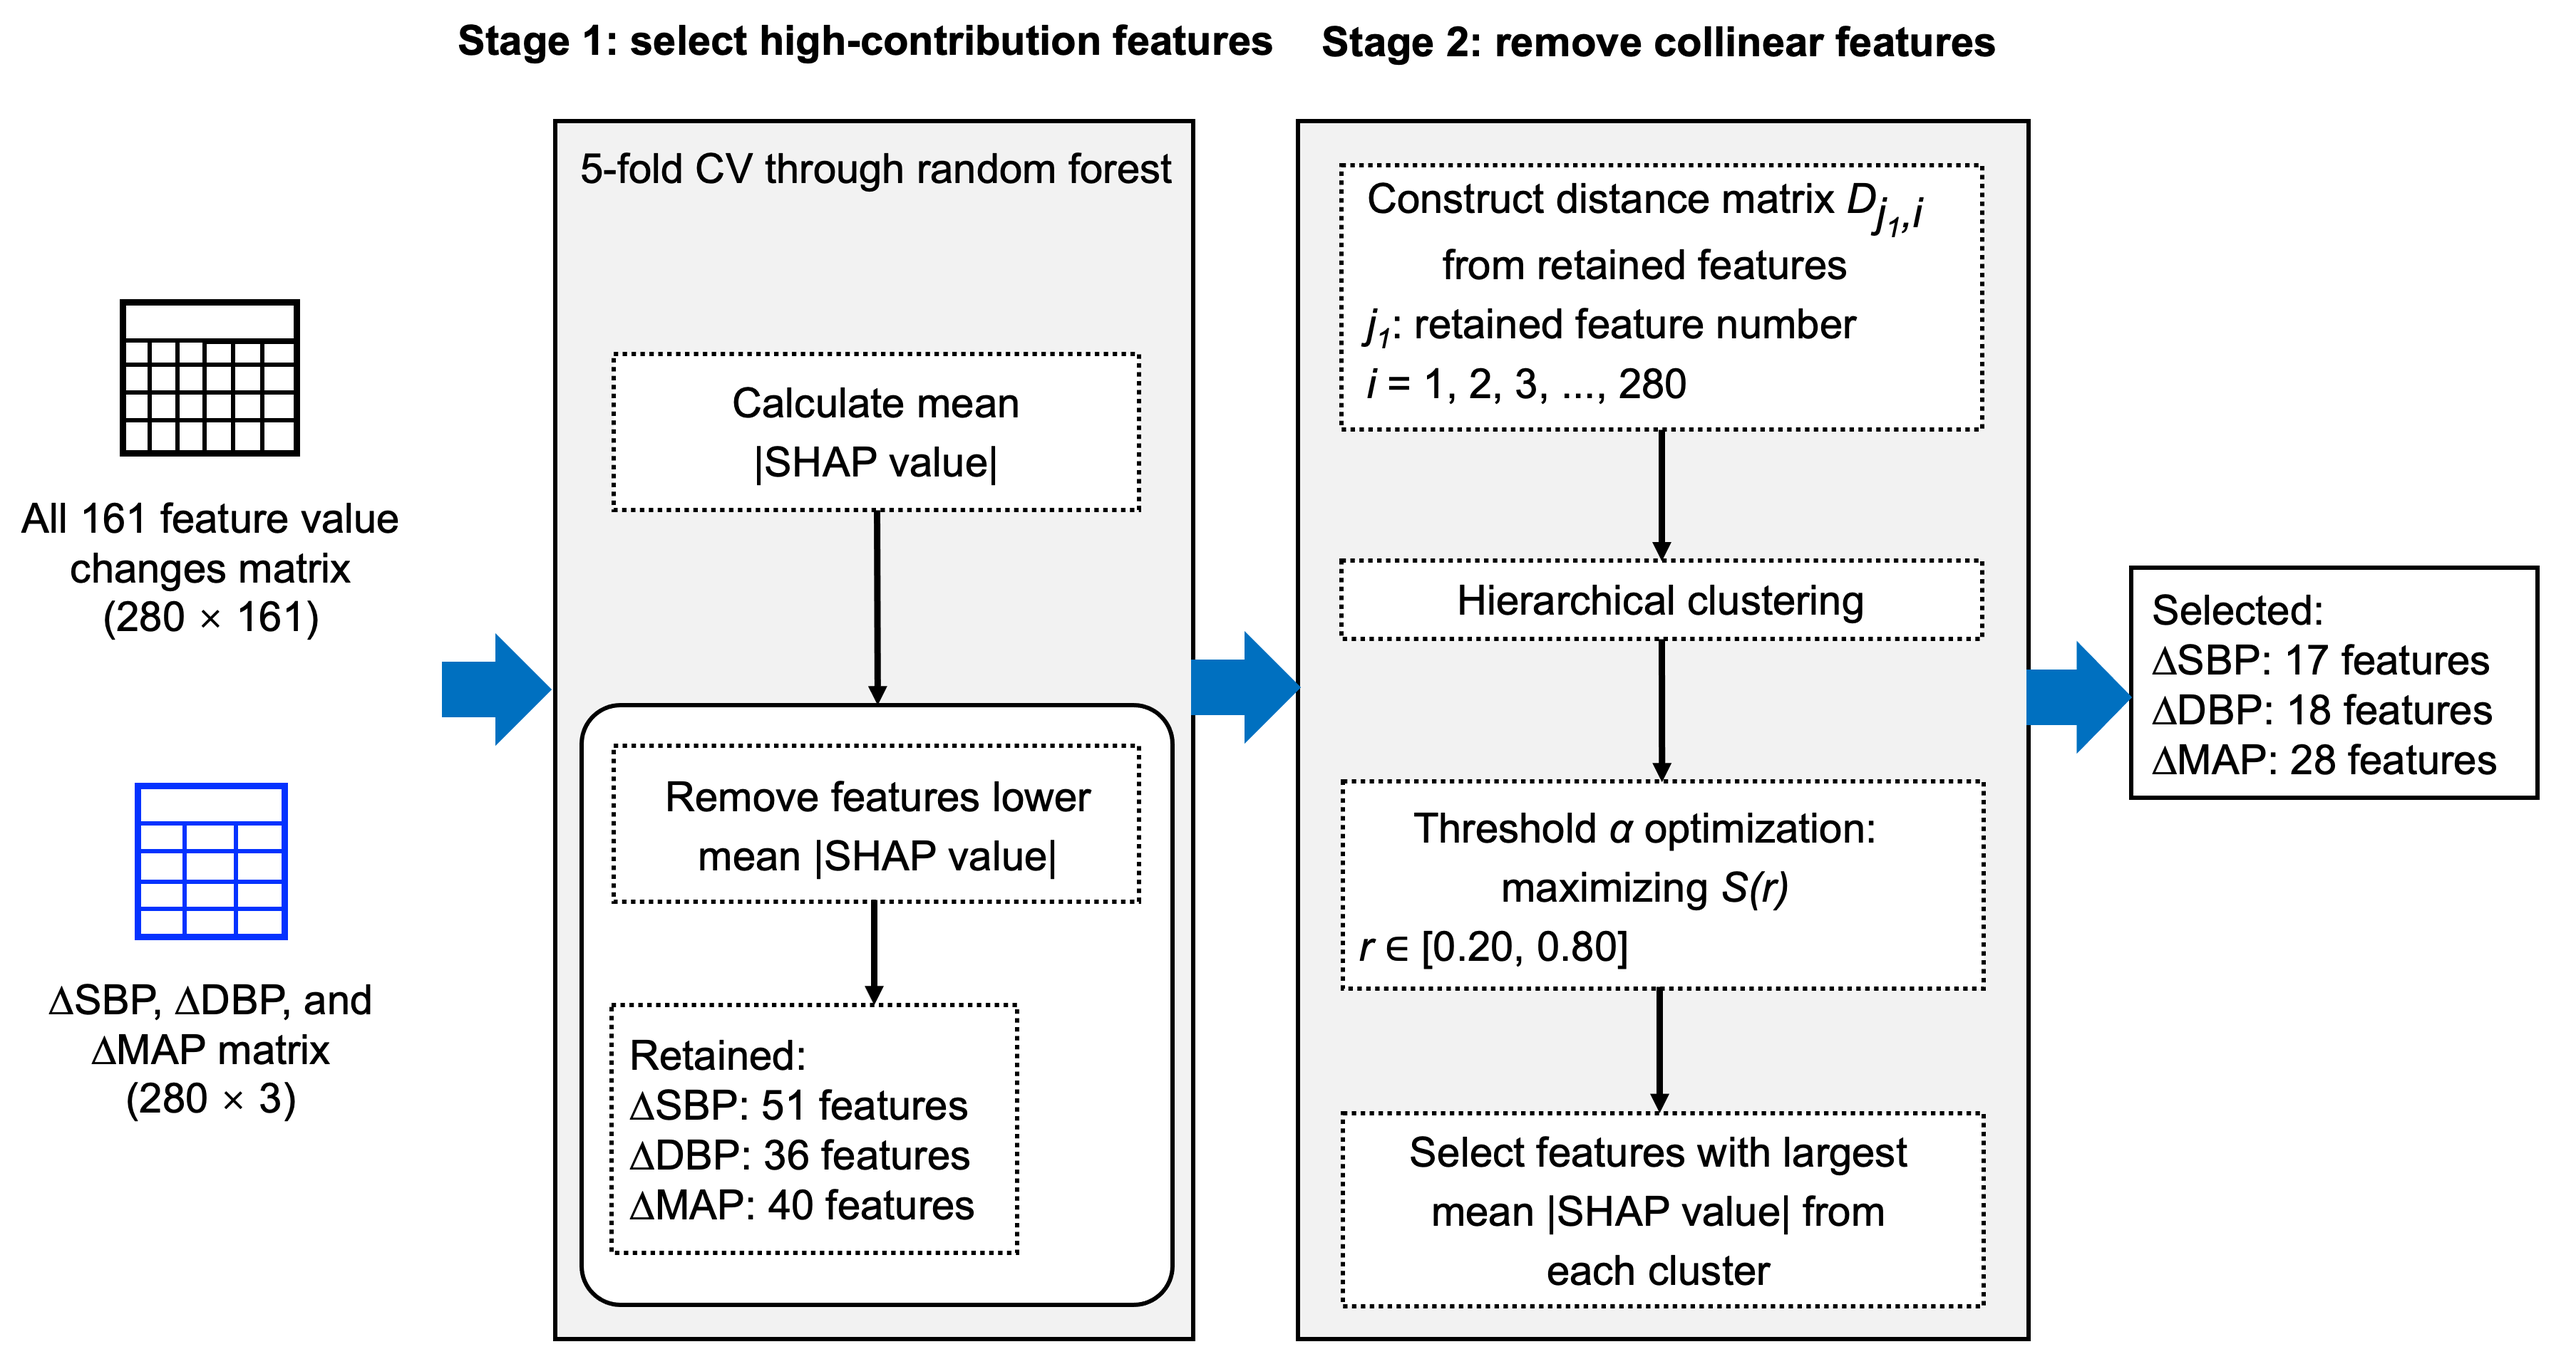
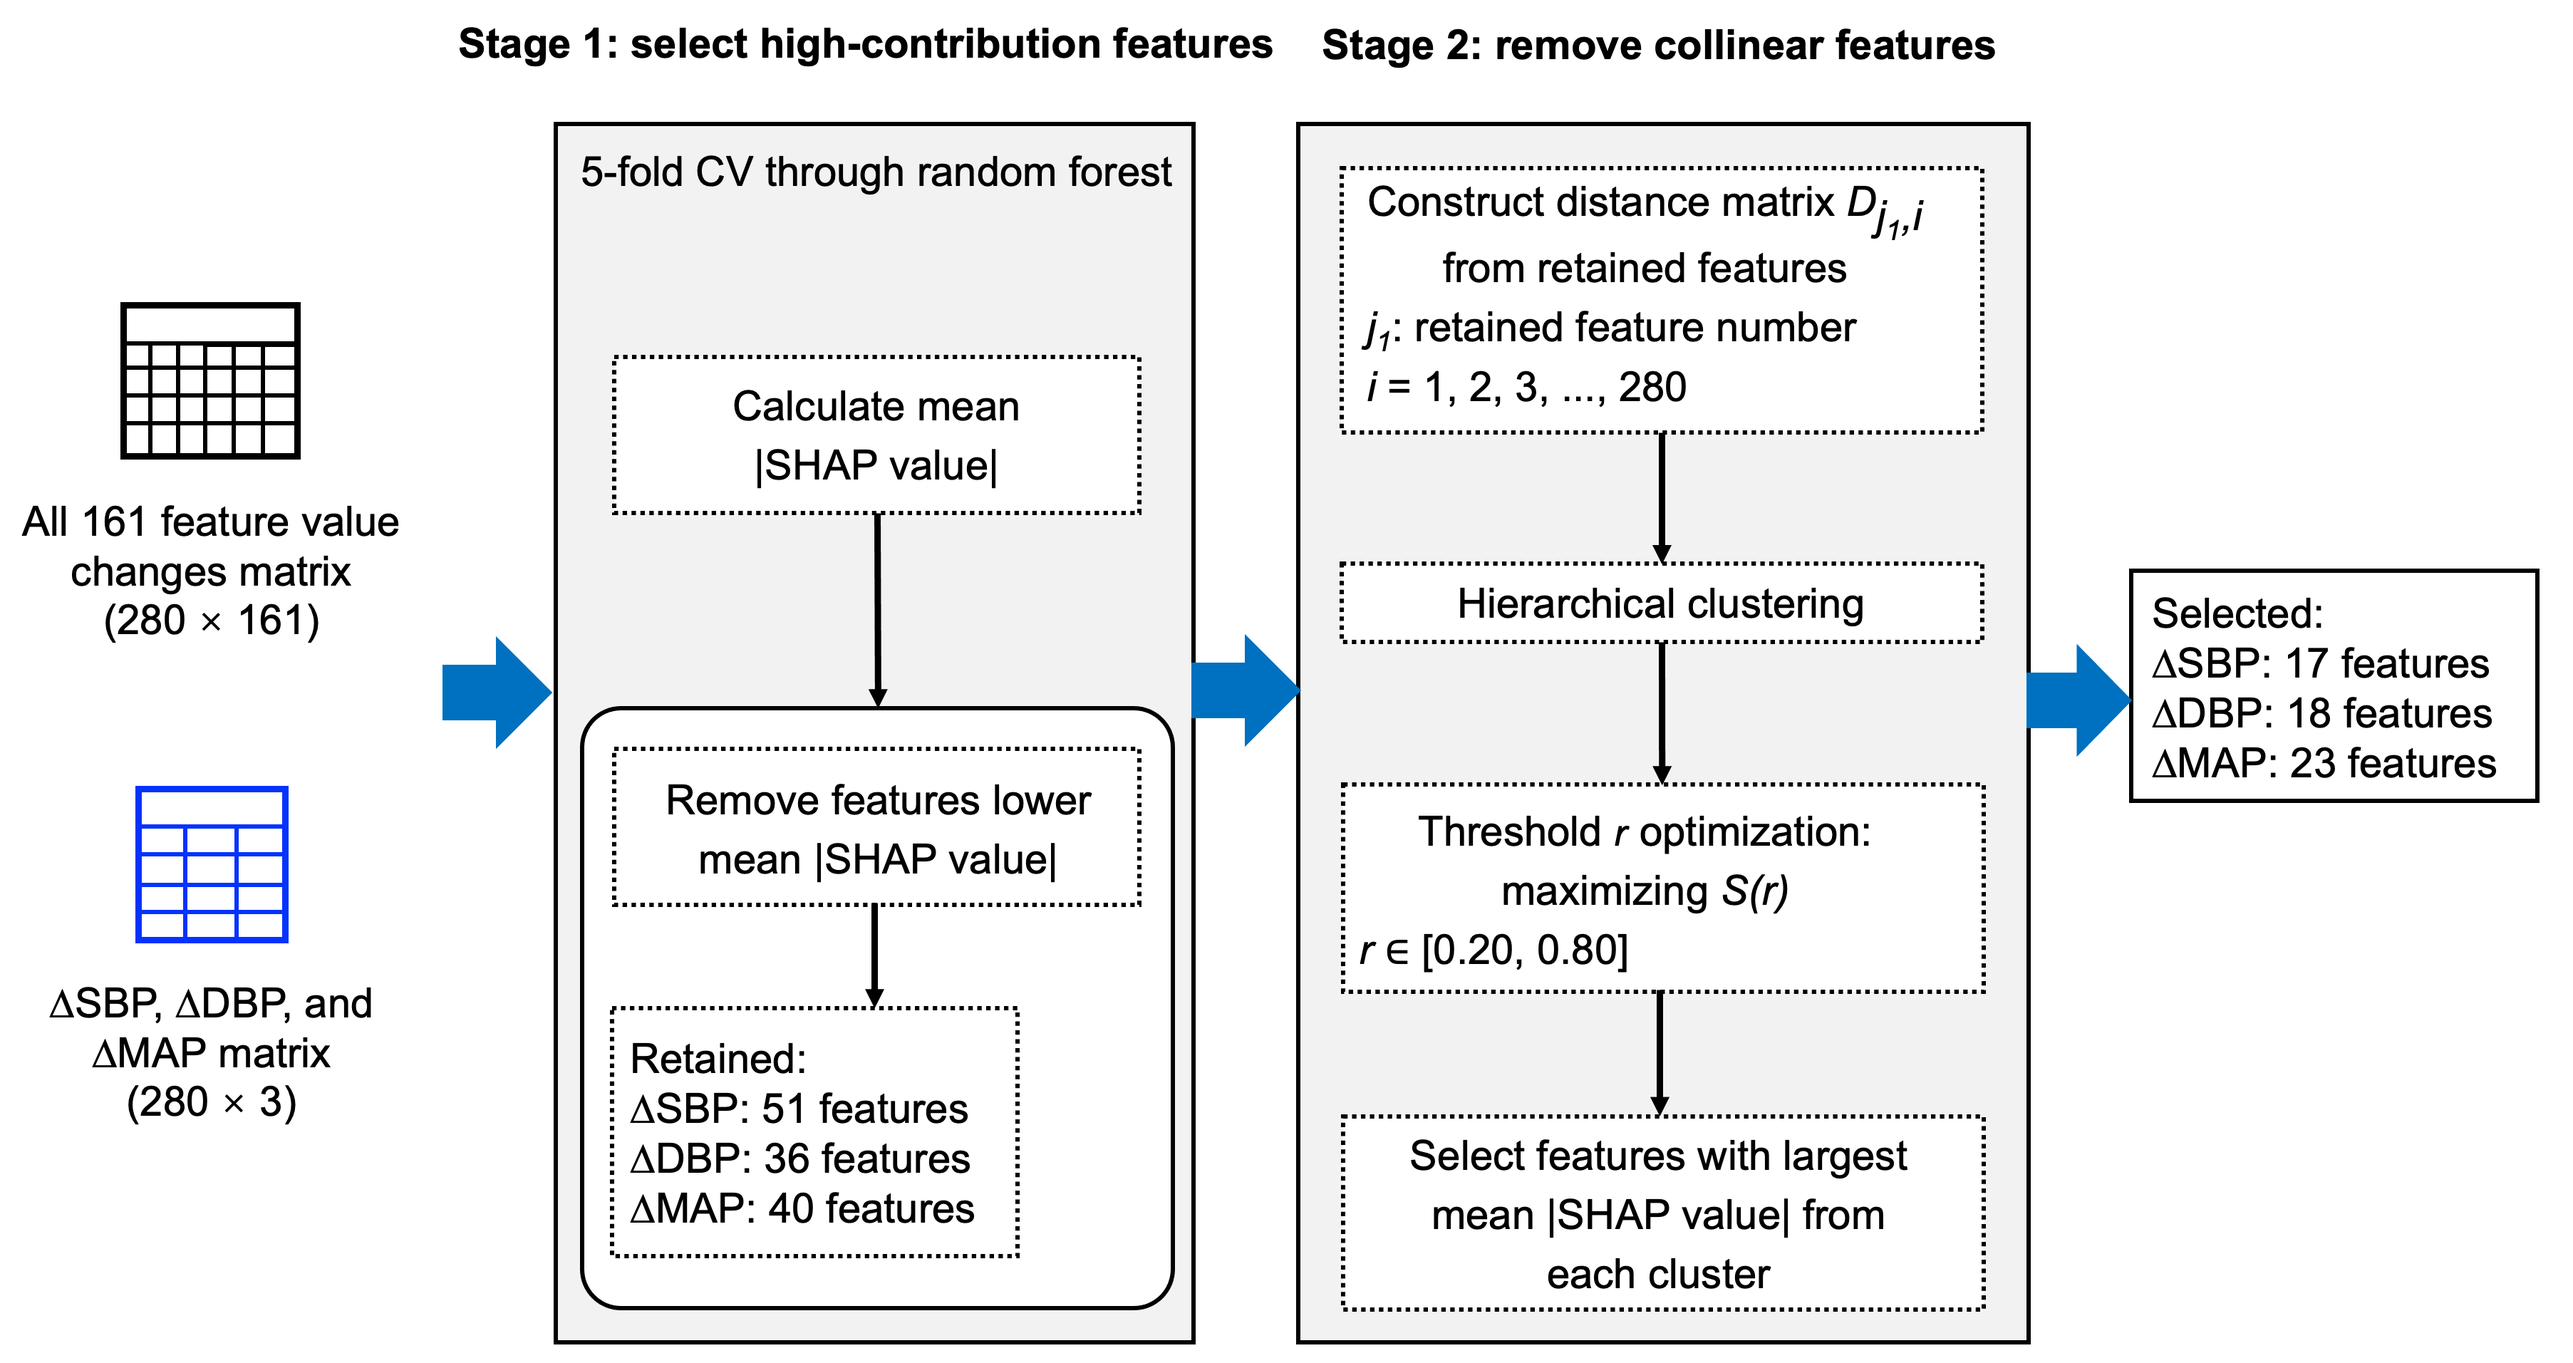
First update

diff --git a/ana_3_two_stage_feature_selection.py b/ana_3_two_stage_feature_selection.py
@@ -7,7 +7,7 @@ import seaborn as sns
 from scipy.cluster.hierarchy import fcluster, linkage
 from scipy.spatial.distance import squareform
 from sklearn.metrics import silhouette_score
-
+from matplotlib.ticker import FuncFormatter
 
 plt.rcParams["font.sans-serif"] = ["Arial"]
 plt.rcParams["font.family"] = "sans-serif"
@@ -48,19 +48,18 @@ def main():
     target = args.target.upper()
     n_features = 161
 
-    
     matrix_csv_path = (
         Path(args.matrix_csv)
         if args.matrix_csv
         else Path(
-            f"{target}_{n_features}_features_SHAP_analysis_5fold_CV_feature_and_SHAP_matrix.csv"
+            f"{target}_{n_features}_features_SHAP_analysis_5fold_CV_Finnegan_feature_and_SHAP_matrix.csv"
         )
     )
     summary_csv_path = (
         Path(args.summary_csv)
         if args.summary_csv
         else Path(
-            f"{target}_{n_features}_features_SHAP_analysis_5fold_CV_SHAP_feature_summary.csv"
+            f"{target}_{n_features}_features_SHAP_analysis_5fold_CV_Finnegan_SHAP_feature_summary.csv"
         )
     )
 
@@ -72,7 +71,6 @@ def main():
     print(f"Loading SHAP matrix: {matrix_csv_path.resolve()}")
     df_merged = pd.read_csv(matrix_csv_path)
 
-    
     meta_cols_set = {
         "sample_index",
         "subject",
@@ -94,7 +92,9 @@ def main():
     )
     print(f"Extracted SHAP matrix: {df_shap.shape[0]} samples x {df_shap.shape[1]} features.")
 
-
+    # =========================================================================
+    # Stage 1: Generate and save clustermap for full 161 features
+    # =========================================================================
     corr_shap_full = df_shap.corr(method="pearson")
     dist_mat_full = np.clip(1.0 - corr_shap_full.values, 0.0, 2.0)
     np.fill_diagonal(dist_mat_full, 0.0)
@@ -129,7 +129,7 @@ def main():
     plt.close()
     print(f"Clustermap saved (Full 161 features): {out_clustermap_path.resolve()} (300 DPI)")
 
-  
+    # Read feature metadata
     if summary_csv_path.exists():
         df_summary = pd.read_csv(summary_csv_path)
         feat_info_dict = df_summary.set_index("feature_name").to_dict(orient="index")
@@ -144,7 +144,7 @@ def main():
         mean_abs_all = np.mean(np.abs(df_shap.values), axis=0)
 
     # =========================================================================
-    # 【Stage 1】Eliminate features with Mean |SHAP| greater than or equal to the overall mean
+    # Stage 1 Screening: Keep features with Mean |SHAP| >= average
     # =========================================================================
     mean_shap_threshold = np.mean(mean_abs_all)
     stage1_mask = mean_abs_all >= mean_shap_threshold
@@ -171,7 +171,7 @@ def main():
     print(f"Stage 1 Screened CSV Saved    : {out_stage1_csv.resolve()}")
 
     # =========================================================================
-    # 【Stage 2】Silhouette Coefficient Maximization Adaptive Optimization (0.20 ~ 0.80, step=0.05)
+    # Stage 2: Silhouette score optimization (0.20 ~ 0.80, step=0.05)
     # =========================================================================
     df_shap_s1 = df_shap[stage1_features]
     corr_shap_s1 = df_shap_s1.corr(method="pearson")
@@ -188,7 +188,7 @@ def main():
         clusters = fcluster(linkage_matrix_s1, t=dist_cut, criterion="distance")
         n_clusters = len(np.unique(clusters))
 
-        # 计算轮廓系数 (需满足 2 <= 簇数 <= 样本数-1)
+        # Calculate silhouette score
         if 1 < n_clusters < len(stage1_features):
             score = silhouette_score(dist_mat_s1, clusters, metric="precomputed")
         else:
@@ -203,7 +203,7 @@ def main():
 
     df_eval = pd.DataFrame(eval_records).dropna().reset_index(drop=True)
 
-    
+    # Find optimal threshold r* for global maximum mean silhouette score
     best_idx = df_eval["silhouette_score"].idxmax()
     best_r = float(df_eval.loc[best_idx, "threshold_r"])
     best_score = float(df_eval.loc[best_idx, "silhouette_score"])
@@ -217,13 +217,13 @@ def main():
     print(f"Optimal Number of Feature Clusters  : {best_k} features")
 
     # =========================================================================
-    # 【Step 2】output stage 2 full feature clustering and representative features CSV
+    # Export full feature clustering and optimal representative features to CSV
     # =========================================================================
     best_dist_cut = 1.0 - best_r
     final_clusters = fcluster(linkage_matrix_s1, t=best_dist_cut, criterion="distance")
     df_stage1["cluster_id"] = final_clusters
 
-
+    # 1. Extract representative feature with max mean |SHAP| for each cluster
     df_stage2_rep = (
         df_stage1.sort_values(by=["cluster_id", "mean_abs_shap"], ascending=[True, False])
         .groupby("cluster_id")
@@ -233,7 +233,7 @@ def main():
         .reset_index(drop=True)
     )
 
-
+    # 2. Build comprehensive table for all 161 features
     rep_feature_set = set(df_stage2_rep["feature_name"])
     cluster_mapping = dict(zip(df_stage1["feature_name"], df_stage1["cluster_id"]))
 
@@ -249,83 +249,80 @@ def main():
         ascending=[False, True, False]
     ).reset_index(drop=True)
 
-
+    # 3. Write full assignment table and representative features to a single CSV
     out_stage2_csv = Path(f"{target}_SHAP_stage2_clusters_features.csv")
     with open(out_stage2_csv, "w", encoding="utf-8-sig", newline="") as f:
-        
         df_all_161_features.to_csv(f, index=False)
-        
         
         f.write("\n")
         f.write("# " + "=" * 78 + "\n")
         f.write(f"# STAGE 2 FINAL REPRESENTATIVE FEATURES ({len(df_stage2_rep)} SELECTED FEATURES)\n")
         f.write("# " + "=" * 78 + "\n")
         
-        
         df_stage2_rep.to_csv(f, index=False)
 
     print(f"Stage 2 Full Clustering & Representative Features CSV : {out_stage2_csv.resolve()}")
 
-    
+    # Print category distribution of final representative features
     print("\nFinal Representative Features - Category Breakdown:")
     print(df_stage2_rep["category"].value_counts().to_string())
 
     # =========================================================================
-    # 【Step 3】Plotting Silhouette Score vs Threshold r and Number of Features k
+    # Plot and save Silhouette Score optimization curves
     # =========================================================================
     out_sil_png_path = Path(f"{target}_Clustering_threshold_Silhouette_Score.png")
     fig, (ax1, ax2) = plt.subplots(1, 2, figsize=(15, 5.5), dpi=300)
 
-   
+    # Formatter to explicitly show '0' without decimal points
+    def y_formatter(x, pos):
+        return '0' if x == 0 else f"{x:.2f}"
+    formatter = FuncFormatter(y_formatter)
+
+    # Subplot (a): Correlation threshold (r) vs Mean silhouette coefficient
     ax1.plot(
         df_eval["threshold_r"],
         df_eval["silhouette_score"],
         marker="o",
         color="#1f77b4",
         linewidth=2.2,
-        markersize=6,
-        label="Mean Silhouette Score",
+        markersize=10,
+        label="Mean silhouette coefficient (selected features)",
     )
-    ax1.axvline(
+    # Highlight optimal point with red marker
+    ax1.plot(
         best_r,
+        best_score,
+        marker="o",
         color="#d62728",
-        linestyle="--",
-        linewidth=1.8,
-        label=f"Optimal r = {best_r:.2f} ({best_k} feats)",
-    )
-    ax1.scatter(
-        [best_r],
-        [best_score],
-        color="#d62728",
-        s=140,
+        markersize=10,
+        linestyle="None",
         zorder=5,
-        marker="*",
+        label=f"Optimal threshold ($r$ = {best_r:.2f})",
     )
-    ax1.set_title(
-        f"(a) Correlation Threshold (r) vs Mean Silhouette Score (Δ{target})",
-        fontsize=12,
-        fontweight="bold",
-        pad=10,
-    )
-    ax1.set_xlabel("Correlation Threshold (r)", fontsize=11, fontweight="bold")
-    ax1.set_ylabel("Mean Silhouette Score", fontsize=11, fontweight="bold")
-    ax1.grid(True, linestyle="--", alpha=0.5)
-    ax1.legend(loc="best", frameon=True)
 
+    ax1.set_ylim(0.05, 0.25)
+    ax1.yaxis.set_major_formatter(formatter)
     
+    ax1.set_xlabel("Correlation threshold ($r$)", fontsize=14)
+    ax1.set_ylabel("Mean silhouette coefficient", fontsize=14)
+    ax1.tick_params(axis="both", direction="in", labelsize=12)
+    ax1.grid(True, linestyle="--", alpha=0.5)
+    ax1.legend(loc="best", frameon=False, fontsize=14)
+
+    # Annotate discrete sample points
     for idx in range(len(df_eval)):
         row = df_eval.iloc[idx]
         ax1.annotate(
             f"{int(row['n_clusters'])}f",
             (row["threshold_r"], row["silhouette_score"]),
             textcoords="offset points",
-            xytext=(0, 7),
+            xytext=(0, 8),
             ha="center",
-            fontsize=7.5,
+            fontsize=12,
             color="#333333",
         )
 
-    
+    # Subplot (b): Retained features (k) vs Mean silhouette coefficient
     df_sorted_k = df_eval.sort_values(by="n_clusters").reset_index(drop=True)
     ax2.plot(
         df_sorted_k["n_clusters"],
@@ -333,41 +330,54 @@ def main():
         marker="s",
         color="#2ca02c",
         linewidth=2.2,
-        markersize=6,
-        label="Cluster Validity Curve",
+        markersize=10,
+        label="Cluster validity curve",
     )
-    ax2.axvline(
+    # Highlight optimal point with red marker
+    ax2.plot(
         best_k,
+        best_score,
+        marker="s",
         color="#d62728",
-        linestyle="--",
-        linewidth=1.8,
-        label=f"Optimal k = {best_k} (Score: {best_score:.3f})",
-    )
-    ax2.scatter(
-        [best_k],
-        [best_score],
-        color="#d62728",
-        s=140,
+        markersize=10,
+        linestyle="None",
         zorder=5,
-        marker="*",
+        label=f"Optimal number of features ($j_2$ = {best_k})",
     )
-    ax2.set_title(
-        f"(b) Retained Feature Count (k) vs Mean Silhouette Score (Δ{target})",
-        fontsize=12,
-        fontweight="bold",
-        pad=10,
-    )
-    ax2.set_xlabel("Number of Feature Clusters (k)", fontsize=11, fontweight="bold")
-    ax2.set_ylabel("Mean Silhouette Score", fontsize=11, fontweight="bold")
-    ax2.grid(True, linestyle="--", alpha=0.5)
-    ax2.legend(loc="best", frameon=True)
+    
+    ax2.set_ylim(0.05, 0.25)
+    ax2.yaxis.set_major_formatter(formatter)
 
-    plt.suptitle(
-        f"Internal Cluster Validity: Silhouette Score Maximization for Δ{target} Feature Selection",
-        fontsize=14,
-        fontweight="bold",
-        y=1.02,
-    )
+    ax2.set_xlabel("Number of feature clusters ($j_2$)", fontsize=14)
+    ax2.set_ylabel("Mean silhouette coefficient", fontsize=14)
+    ax2.tick_params(axis="both", direction="in", labelsize=12)
+    ax2.grid(True, linestyle="--", alpha=0.5)
+    ax2.legend(loc="best", frameon=False, fontsize=14)
+
+    prev_x = -999
+    for idx in range(len(df_sorted_k)):
+        row = df_sorted_k.iloc[idx]
+        curr_x = row["n_clusters"]
+        curr_y = row["silhouette_score"]
+        
+        if abs(curr_x - prev_x) < 2:
+            y_offset = -15
+            prev_x = -999 
+        else:
+            y_offset = 8
+            prev_x = curr_x
+
+        ax2.annotate(
+            f"{curr_y:.2f}",
+            (curr_x, curr_y),
+            textcoords="offset points",
+            xytext=(0, y_offset),
+            ha="center",
+            fontsize=12,
+            color="#333333",
+        )
+
+
     plt.tight_layout()
     plt.savefig(out_sil_png_path, dpi=300, bbox_inches="tight")
     plt.close()
